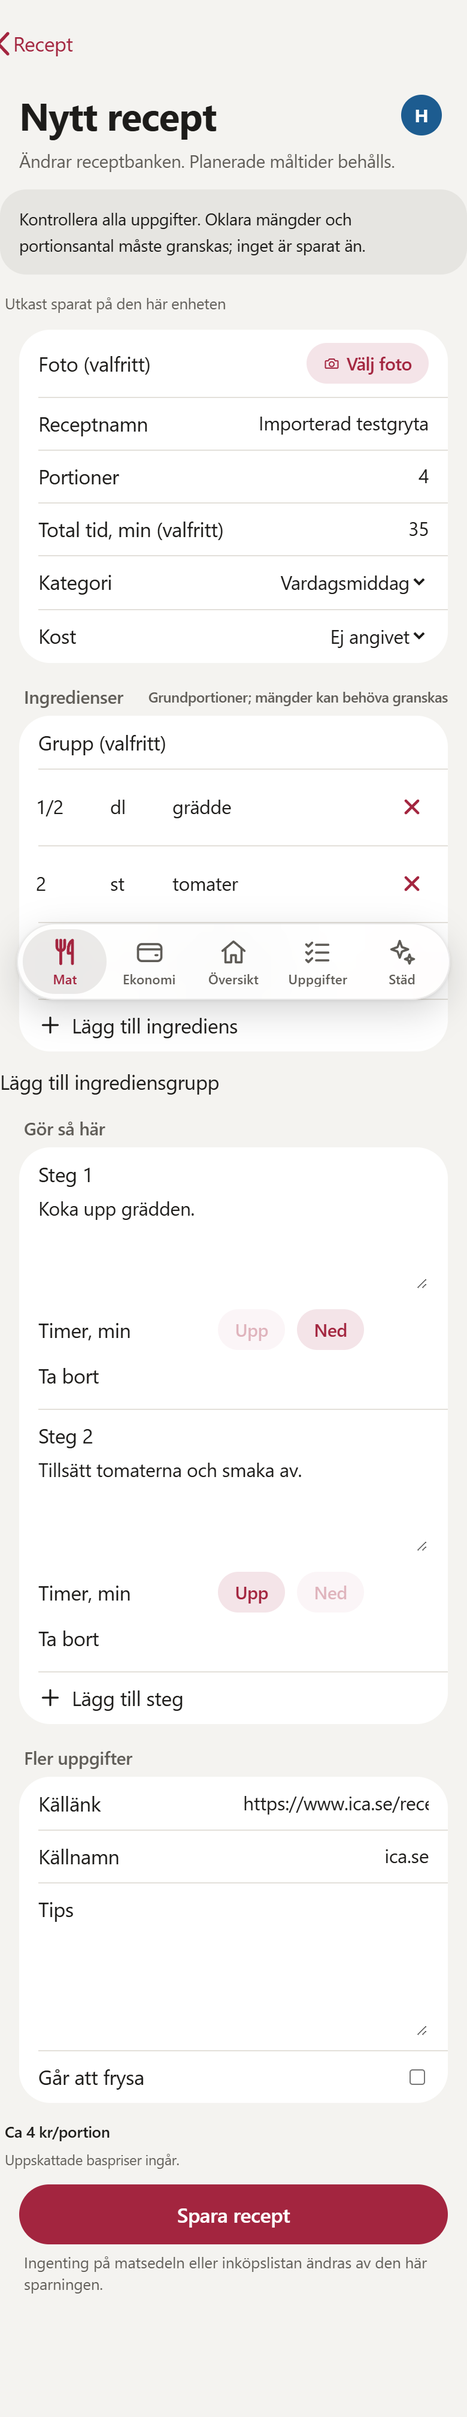
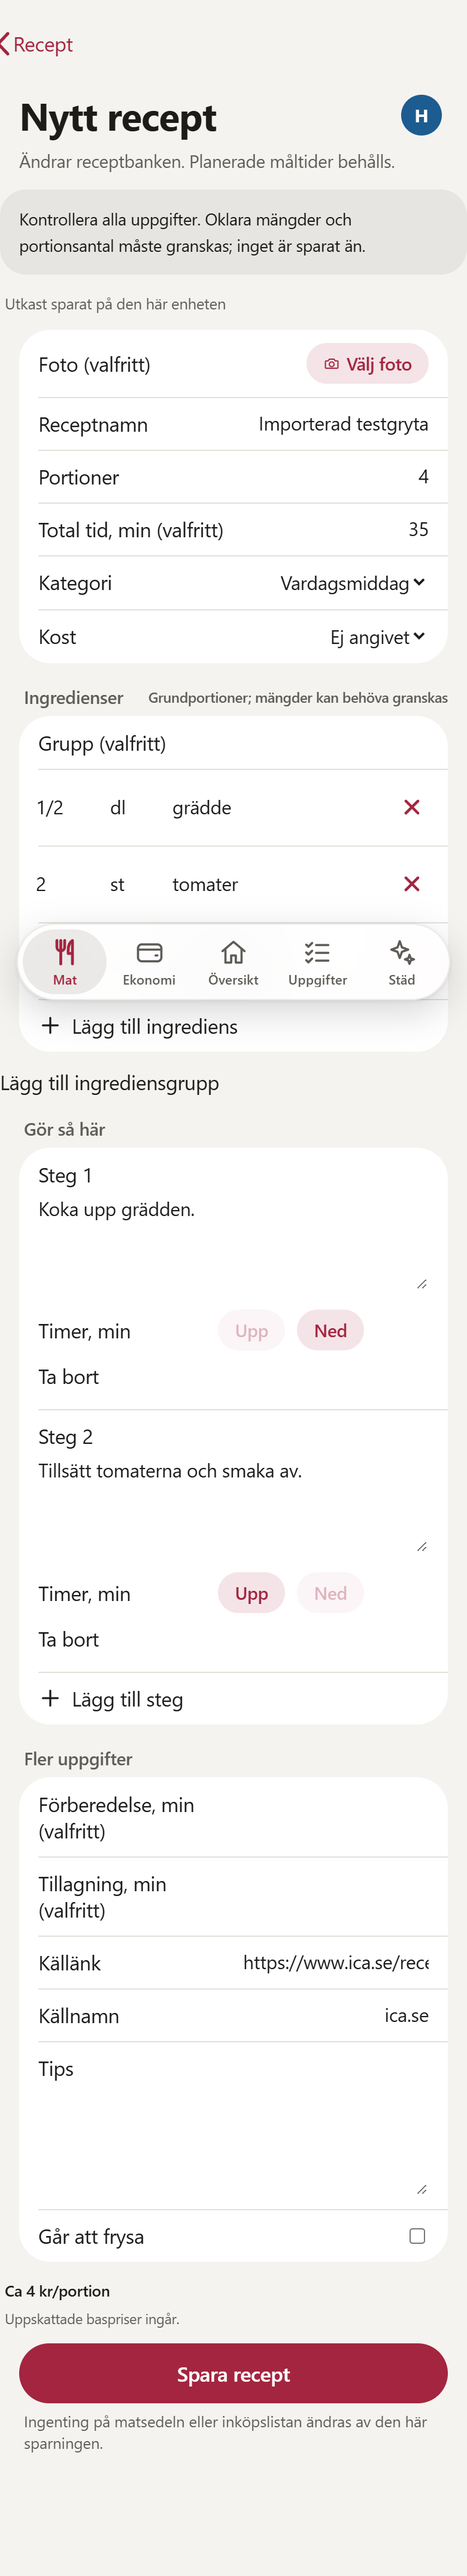
Recept: visa originaltext och låt tider granskas separat
Agent: Codex

diff --git a/app.js b/app.js
@@ -3853,6 +3853,7 @@ function recipeScreen(){const header=(title,sub)=>'<div class="rc-top"><button c
  if(RC.screen==='impact')return recipeImpactHtml(header,error,notice);
  const e=RC.edit;if(!e)return'';const r=e.recipe;
  let h=header(e.base||e.expectedRev?'Redigera recept':'Nytt recept','Ändrar receptbanken. Planerade måltider behålls.')+error+notice;
+ if(r.importOriginal)h+='<details class="rc-note"><summary>Visa inklistrad originaltext</summary><pre style="white-space:pre-wrap">'+esc(r.importOriginal)+'</pre></details>';if(r.importYield&&!r.portions)h+='<div class="rc-note">Portioner i originalet: '+esc(r.importYield)+'. Ange ett tydligt portionsantal.</div>';
  if(RC.confirmLeave)h+='<div class="rc-note"><b>Behålla utkastet?</b><div class="pills"><button class="pill" data-rc="keep">Behåll och lämna</button><button class="pill" data-rc="discard">Kasta utkast</button><button class="pill" data-rc="stay">Fortsätt redigera</button></div></div>';
  h+='<div class="rc-draft-status" role="status">'+(e.pending?'Sparningen är inte bekräftad. Ditt utkast finns kvar.':e.dirty?'Utkast sparat på den här enheten':'Utkast · inte sparat i hushållet')+'</div>';
  if(e.legacyChoices)h+='<div class="rc-note"><b>Två äldre kopior skiljer sig</b><p>Välj vilken du vill redigera. Båda originalen behålls; planerade måltider ändras inte.</p><div class="pills"><button class="pill" data-rc="legacySheet">Utgå från kalkylarket</button><button class="pill" data-rc="legacyBank">Utgå från sparade kopian</button></div></div>';
@@ -3861,7 +3862,7 @@ function recipeScreen(){const header=(title,sub)=>'<div class="rc-top"><button c
  (r.groups||[]).forEach((g,gi)=>{h+=group('<label class="cell rc-field"><span>Grupp (valfritt)</span><input class="field" data-rgroup="'+gi+'" value="'+esc(g.title||'')+'"></label>'+g.items.map((it,i)=>'<div class="cell rc-ingredient"><input class="field rc-amount" aria-label="Mängd" data-ri="'+gi+':'+i+':amount" value="'+esc(it.raw|| (it.q==null?'':String(it.q).replace('.',',')))+'" placeholder="Mängd"><input class="field rc-unit" aria-label="Enhet" data-ri="'+gi+':'+i+':u" value="'+esc(it.u||'')+'" placeholder="Enhet"><input class="field" aria-label="Ingrediens" data-ri="'+gi+':'+i+':n" value="'+esc(it.n)+'" placeholder="Ingrediens"><button class="ib" data-rc="delIngredient" data-i="'+gi+':'+i+'" aria-label="Ta bort ingrediens">'+I.x+'</button></div>').join('')+'<button class="cell link" data-rc="addIngredient" data-i="'+gi+'">'+I.plus+'Lägg till ingrediens</button>')});
  h+='<button class="linkbtn" data-rc="addGroup">Lägg till ingrediensgrupp</button>'+sh('Gör så här');
  h+=group(r.steps.map((s,i)=>'<div class="cell rc-stack"><label>Steg '+(i+1)+'<textarea class="field" data-rstep="'+i+':t" rows="3">'+esc(s.t||'')+'</textarea></label><div class="rc-toolbar"><label>Timer, min <input class="field rc-timer" data-rstep="'+i+':timer" value="'+esc(s.timer||'')+'" inputmode="numeric"></label><button class="pill" data-rc="stepUp" data-i="'+i+'"'+(!i?' disabled':'')+'>Upp</button><button class="pill" data-rc="stepDown" data-i="'+i+'"'+(i===r.steps.length-1?' disabled':'')+'>Ned</button><button class="linkbtn" data-rc="delStep" data-i="'+i+'">Ta bort</button></div>'+(s.k||s.v?'<label>Köttvariant<textarea class="field" data-rstep="'+i+':k" rows="2">'+esc(s.k||'')+'</textarea></label><label>Vegetarisk variant<textarea class="field" data-rstep="'+i+':v" rows="2">'+esc(s.v||'')+'</textarea></label>':'')+'</div>').join('')+'<button class="cell link" data-rc="addStep">'+I.plus+'Lägg till steg</button>');
- h+=sh('Fler uppgifter')+group(recipeField('Källänk','src',r.src,'url')+recipeField('Källnamn','srcName',r.srcName)+ '<label class="cell rc-stack">Tips<textarea class="field" data-rf="tips" rows="3">'+esc(r.tips||'')+'</textarea></label><label class="cell"><span class="grow">Går att frysa</span><input type="checkbox" data-rf="freezes"'+(r.freezes?' checked':'')+'></label>');
+ h+=sh('Fler uppgifter')+group(recipeField('Förberedelse, min (valfritt)','prepMin',r.prepMin,'text')+recipeField('Tillagning, min (valfritt)','cookMin',r.cookMin,'text')+recipeField('Källänk','src',r.src,'url')+recipeField('Källnamn','srcName',r.srcName)+ '<label class="cell rc-stack">Tips<textarea class="field" data-rf="tips" rows="3">'+esc(r.tips||'')+'</textarea></label><label class="cell"><span class="grow">Går att frysa</span><input type="checkbox" data-rf="freezes"'+(r.freezes?' checked':'')+'></label>');
  h+='<div id="rc-price-preview">'+recipePrice(r).html+'</div>';
  const dupes=recipeDuplicates(r,e.root);h+=(RC.dupes.length||dupes.length)?'<div class="rc-note"><b>Liknande recept finns</b>'+ (RC.dupes.length?RC.dupes:dupes).map(x=>'<div>'+esc(x.title)+'</div>').join('')+'<label class="cell"><input type="checkbox" id="rc-allow-duplicate"'+(e.allowDuplicate?' checked':'')+'> Spara ändå som min variant</label></div>':'';
  if(!recipeAllowed())h+='<div class="banner">Receptredigering kräver uppdaterad Kod.gs och setupRecipes på datorn. Utkastet kan behållas här.</div>';
@@ -3869,7 +3870,7 @@ function recipeScreen(){const header=(title,sub)=>'<div class="rc-top"><button c
  h+='<div class="block"><button class="btn-fill rc-save" data-rc="save"'+(RC.busy||!recipeAllowed()||!!e.legacyChoices?' disabled':'')+'>'+(RC.busy?'Sparar…':e.pending?'Försök spara igen':'Spara recept')+'</button></div><div class="foot">Ingenting på matsedeln eller inköpslistan ändras av den här sparningen.</div>';
  if(e.expectedRev)h+='<div class="block"><button class="btn-tint red" data-rc="archive">Arkivera recept</button></div>';return h}
 function recipeAmount(t){t=String(t||'').trim().replace(',','.').replace(/½/g,'1/2').replace(/¼/g,'1/4').replace(/¾/g,'3/4');const m=/^(?:(\d+)\s+)?(\d+)\/(\d+)$/.exec(t);if(m&&+m[3])return Number(m[1]||0)+Number(m[2])/Number(m[3]);return /^\d+(\.\d+)?$/.test(t)&&Number(t)>0?Number(t):null}
-function recipeDraftCapture(el){const e=RC.edit;if(!e)return;const r=e.recipe;if(el.dataset.rf){const k=el.dataset.rf;r[k]=el.type==='checkbox'?el.checked:el.value;if(k==='portions'||k==='min')r[k]=el.value.replace(',','.');if(k==='group')r.course=el.value==='Efterrätt'?'efterrätt':'';}
+function recipeDraftCapture(el){const e=RC.edit;if(!e)return;const r=e.recipe;if(el.dataset.rf){const k=el.dataset.rf;r[k]=el.type==='checkbox'?el.checked:el.value;if(['portions','min','prepMin','cookMin'].includes(k))r[k]=el.value.replace(',','.');if(k==='group')r.course=el.value==='Efterrätt'?'efterrätt':'';}
  if(el.dataset.rgroup!=null)r.groups[Number(el.dataset.rgroup)].title=el.value;
  if(el.dataset.ri){const[g,i,k]=el.dataset.ri.split(':'),it=r.groups[g].items[i];if(k==='amount'){it.raw=el.value;it.q=recipeAmount(el.value)}else it[k]=el.value;}
  if(el.dataset.rstep){const[i,k]=el.dataset.rstep.split(':');r.steps[i][k]=el.value;}

diff --git a/verktyg/emu/recept-ui.js b/verktyg/emu/recept-ui.js
@@ -15,7 +15,7 @@ module.exports=async(pg,h)=>{
  const second=await pg.evaluate(()=>window.__d('RC.savedId'));assert(await pg.evaluate(id=>window.__d('recipeCandidates().filter(r=>recipeRoot(r.id)===recipeRoot('+JSON.stringify(id)+')).length===1'),first));assert(await pg.evaluate(()=>window.__d('recipePlanReady({_root:"test",groups:[{items:[{n:"pasta",q:null}]}]})===false')));assert.notEqual(first,second);assert.equal(await pg.evaluate(id=>window.__d('recipeById('+JSON.stringify(id)+').title'),first),'Min testpasta');
  await click('[data-rc="finish"]');await click('#main [data-act="recipeBack"]');await pg.locator('[data-rcform="search"] input').fill('uppdaterade');await pg.locator('[data-rcform="search"]').evaluate(f=>f.requestSubmit());await h.idle(250);assert(await pg.getByRole('button',{name:'Min uppdaterade pasta',exact:true}).isVisible());
  await h.shot('recept-sok',true);await h.shot('recept-sok-telefon');await click('[data-rc="import"]');await pg.locator('#rc-import-text').fill('Tomatgryta\n4 portioner\nIngredienser\n1/2 dl grädde\n2 st tomater\nGör så här\n1. Koka upp allt.');await click('[data-rc="parse"]');
- assert.equal(await pg.locator('[data-rf="portions"]').inputValue(),'4');assert.equal(await pg.locator('[data-ri="0:0:amount"]').inputValue(),'1/2');await h.shot('recept-importgranskning',true);await h.shot('recept-import-telefon');
+ assert.equal(await pg.locator('[data-rf="portions"]').inputValue(),'4');assert.equal(await pg.locator('[data-ri="0:0:amount"]').inputValue(),'1/2');assert(await pg.getByText('Visa inklistrad originaltext',{exact:true}).isVisible());await pg.locator('[data-rf="prepMin"]').fill('10');await h.shot('recept-importgranskning',true);await h.shot('recept-import-telefon');
  await click('[data-rc="leave"]');assert(await pg.getByText('Behålla utkastet?',{exact:true}).isVisible());await click('[data-rc="keep"]');
  await click('[data-rc="resume"]');assert.equal(await pg.locator('[data-rf="title"]').inputValue(),'Tomatgryta');await click('[data-rc="leave"]');await click('[data-rc="discard"]');
  await click('[data-rc="new"]');await pg.locator('[data-rf="title"]').fill('Min uppdaterade pasta');await pg.locator('[data-ri="0:0:amount"]').fill('400');await pg.locator('[data-ri="0:0:n"]').fill('pasta');await pg.locator('[data-rstep="0:t"]').fill('Koka.');await click('[data-rc="save"]');await h.idle(400);assert(await pg.getByText('Liknande recept finns',{exact:true}).isVisible());assert(await pg.locator('[data-rf="title"]').isVisible());await pg.locator('#rc-allow-duplicate').check();await click('[data-rc="save"]');await h.idle(400);assert(await pg.getByText('Receptet är sparat. Planerade måltider är oförändrade.',{exact:true}).isVisible());

diff --git a/verktyg/emu/recept-server.js b/verktyg/emu/recept-server.js
@@ -3,10 +3,11 @@ const assert=require('node:assert/strict'),gas=require('./gas');
 const post=b=>JSON.parse(gas.handle('POST',JSON.stringify(b),{}));
 assert.equal(JSON.parse(gas.handle('GET','',{})).data.recipeStore,null,'Old workbook remains readable');
 gas.ctx.setupRecipes();gas.ctx.setupRecipes();
-const r={title:'Testpasta',portions:4,min:25,group:'Vardag',who:'Vegetariskt',groups:[{title:'Sås',items:[{n:'pasta',q:400,u:'g'}]}],steps:[{t:'Koka pastan',timer:10}],src:'https://example.com/recept',img:'',custom:{proteinVariant:'preserve'}};
+const r={title:'Testpasta',portions:4,min:25,prepMin:10,cookMin:15,group:'Vardag',who:'Vegetariskt',groups:[{title:'Sås',items:[{n:'pasta',q:400,u:'g'}]}],steps:[{t:'Koka pastan',timer:10}],src:'https://example.com/recept',img:'',custom:{proteinVariant:'preserve'}};
 const originalMenu=JSON.stringify(gas.book.sheets.Matsedel.rows),originalShop=JSON.stringify(gas.book.sheets['Inköp'].rows);
 const req={action:'recipeSave',root:'test-root',expectedRev:0,recipe:r,base:{...r,title:'Gammalt recept'},op:'save-first-operation'};
 const a=post(req);assert(a.ok,a.error);assert.equal(a.data.recipeStore.versions.length,2);assert.equal(a.data.recipeStore.versions.find(x=>x.id==='test-root').title,'Gammalt recept');assert.deepEqual(a.data.recipeStore.versions.find(x=>x.id===a.savedId).custom,r.custom);
+assert.equal(a.data.recipeStore.versions.find(x=>x.id===a.savedId).prepMin,10);assert.throws(()=>gas.ctx.recipeValidate_({...r,prepMin:-1}));
 const retry=post(req);assert(retry.ok);assert.equal(retry.savedId,a.savedId);assert.equal(retry.data.recipeStore.versions.length,2);
 const conflict=post({...req,op:'save-conflict-operation',recipe:{...r,title:'Andra enheten'}});assert.equal(conflict.code,'conflict');
 const rev2=post({...req,expectedRev:1,op:'save-second-operation',recipe:{...r,title:'Ny version'}});assert(rev2.ok,rev2.error);assert.equal(rev2.data.recipeStore.versions.find(x=>x.id===a.savedId).title,'Testpasta');assert.equal(rev2.data.recipeStore.heads[0].rev,2);

diff --git a/OVERLAMNING.md b/OVERLAMNING.md
@@ -11,7 +11,7 @@ Claude och Codex: följ AGENTS.md avsnitt 7. Ersätt inaktuell status; historik 
 
 ## Recept: implementerat, väntar på Pusha
 
-- Ägare Codex; gren `codex/recipe-management`, bas `003680f`. Henrik godkände Runda + Piller och bad börja implementationen. Plan/skisser i PR #21; väder-PR #20 är separat.
+- Ägare Codex; gren `codex/recipe-management`, [PR #22](https://github.com/HenrikLH/hushallstavlan/pull/22), bas `003680f`. Henrik godkände Runda + Piller och bad börja implementationen. Plan/skisser i PR #21; väder-PR #20 är separat.
 - Klart: editor, standard-sök/filter, granskad länk/textimport, dubblettval, källor, prisosäkerhet, utkast/offline, versionslagring, arkivera/återställa och konfliktkontroll. Matsedel bevaras; valda måltider uppdateras endast efter inköpsgranskning.
 - Lagring/synk/kompatibilitet, importgränser och framtida serversteg: `docs/recipe-management-release.md`. Faktiska bilder: `outputs/recipe-management-implementation/`; tidigare bilder i `outputs/recipe-management/` är skisser.
 - Lokalt grönt: serverfel/återförsök, receptflöden i telefon/vägg ljust/mörkt, tvåenhetskonflikt, offline, dubbletter, foto, äldre kopior och gammal server. Befintliga UI3-telefon/UI2-vägg-funktionstester gröna. CI-resultat och testad commit finns i implementations-PR.

diff --git a/docs/recipe-management-release.md b/docs/recipe-management-release.md
@@ -4,7 +4,7 @@ Gren: `codex/recipe-management`. Designunderlag: PR #21. Ingen ändring är publ
 
 ## Vad som finns
 
-- Skapa och redigera namn, eget foto, portioner, tid, kategori/kost, ingrediensgrupper, mängder, instruktioner, stegordning, timer, källa och tips.
+- Skapa och redigera namn, eget foto, portioner, total-/förberedelse-/tillagningstid, kategori/kost, ingrediensgrupper, mängder, instruktioner, stegordning, timer, källa och tips.
 - Gemensam sökning på namn/ingredienser, favoriter, högst 30 minuter och befintliga kategorier i standardgränssnittet. Återanvänder appens form- och menyval, inklusive Runda + Piller.
 - Import från länk eller inklistrad text öppnar ett granskningsutkast. Ingenting sparas automatiskt. Liknande titel/källa/ingredienser ger varning; egen variant kräver uttrycklig bekräftelse.
 - Arkivering och återställning i stället för permanent radering. Arkiverade recept föreslås inte i nya veckoplaner. Redan planerade recept fungerar fortfarande.
